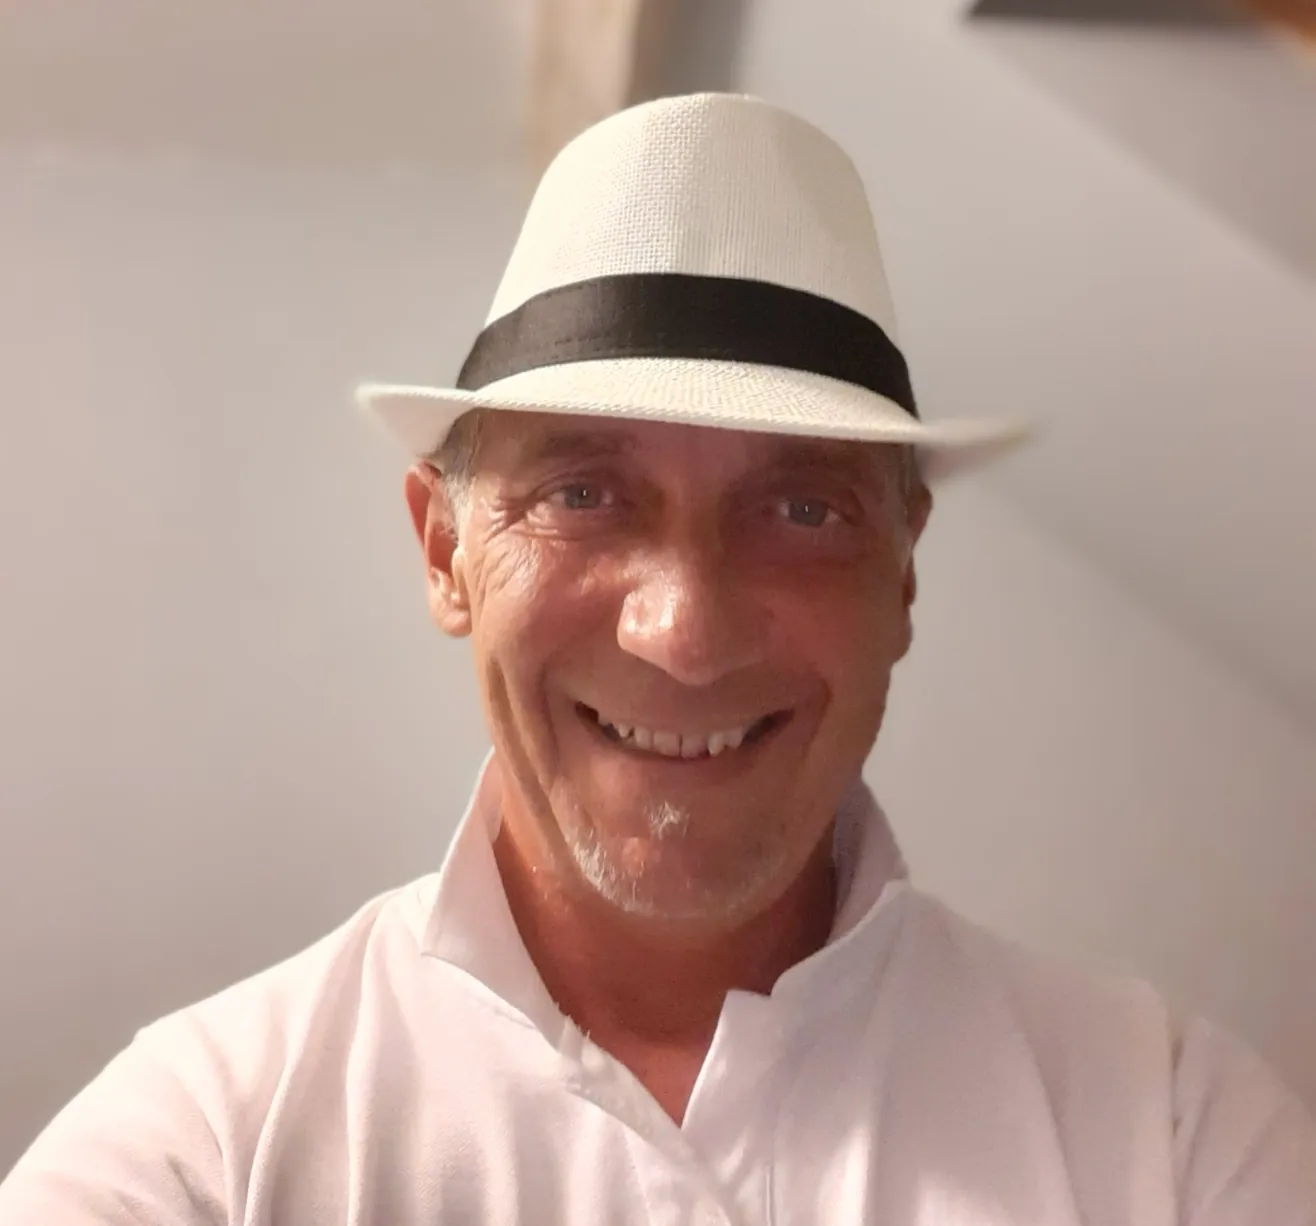
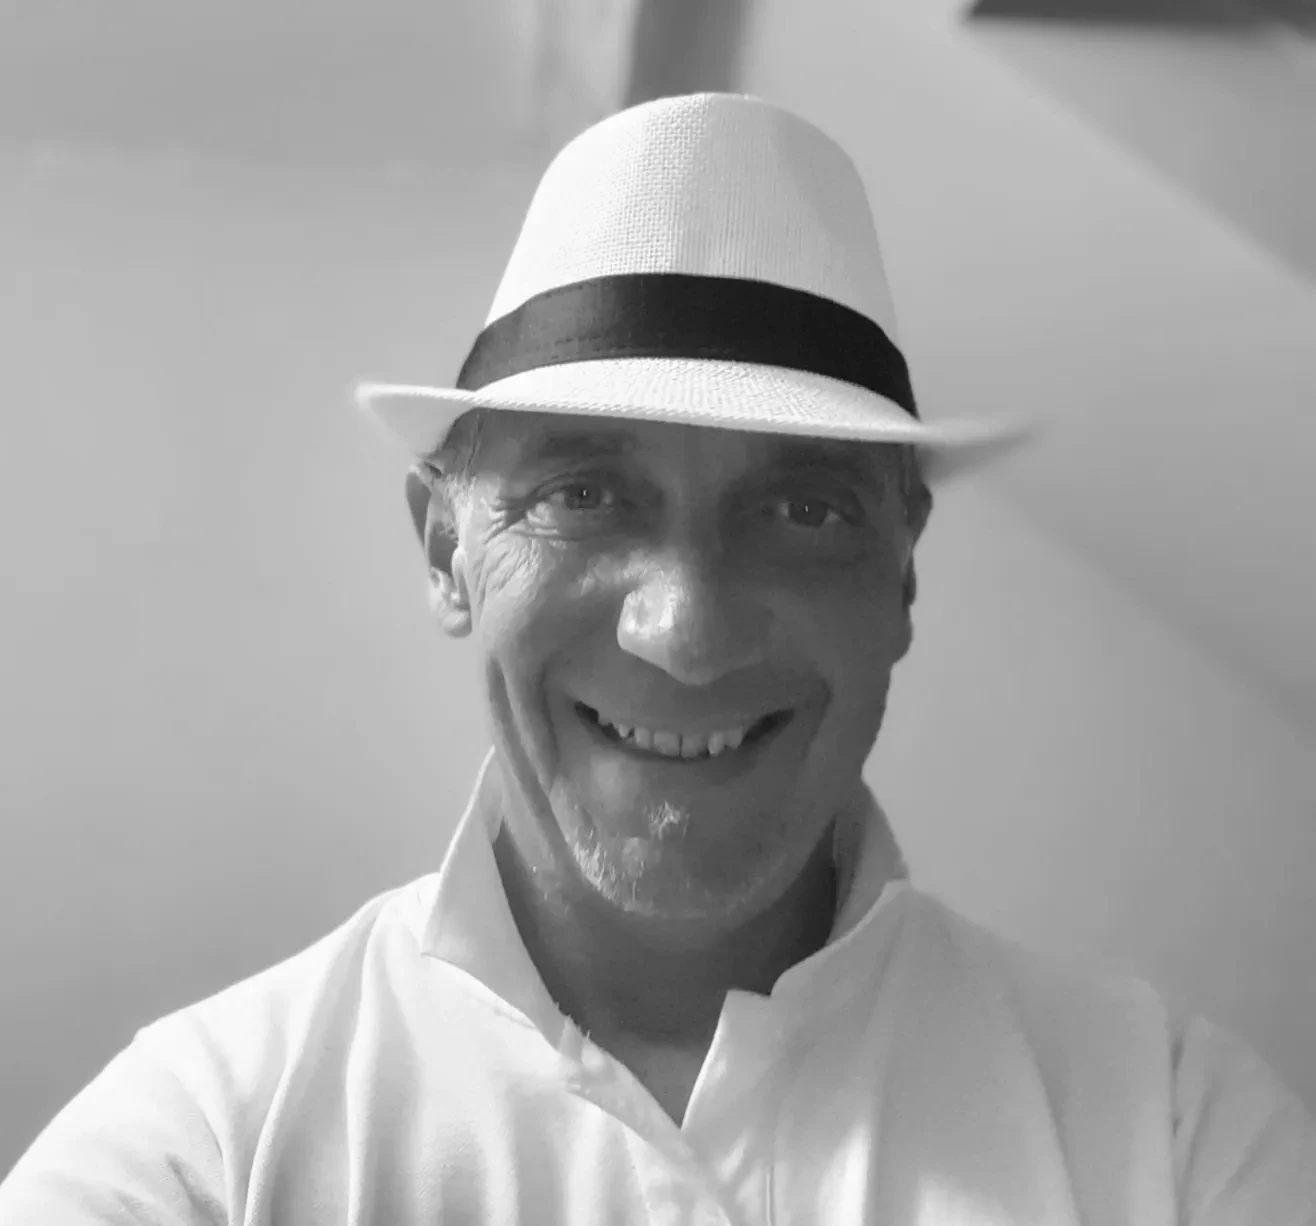
modif img, ajout animation

diff --git a/src/Container/ItemProject.jsx b/src/Container/ItemProject.jsx
@@ -1,42 +1,90 @@
-
+import React, { useState } from 'react';
+import { FontAwesomeIcon } from '@fortawesome/react-fontawesome';
+import { faChevronLeft, faChevronRight } from '@fortawesome/free-solid-svg-icons';
 import pageohmyfood from '../assets/images/pageohmyfood.webp';
 import pagekasa from '../assets/images/pagekasa.webp';
 import pageargentbank from '../assets/images/pageargentbank.webp';
+import pagePrintit from '../assets/images/pagePrintit.webp'
 import backgroundImage from '../assets/images/fonddepage.webp';
 import Bannerlogos from '../Components/Bannerlogos';
 
 function ItemProject() {
+    const [currentIndex, setCurrentIndex] = useState(0);
+    const [hovered, setHovered] = useState(false);
+
+    const projects = [
+        {
+            title: "Oh my food",
+            description: "Réalisation d'un site responsive vitrine pour les cartes de divers restaurateurs",
+            img: pageohmyfood,
+            link: 'https://fredcentvin.github.io/projet4-ohmyfood/'
+        },
+        {
+            title: "Kasa",
+            description: "Site responsive pour de la location d'appartements entre particuliers utilisant React",
+            img: pagekasa
+        },
+        {
+            title: "ArgentBank",
+            description: "Façonnage du site d'une banque en ligne utilisant React, Redux, ainsi que de l'identification auprès du serveur avec un token et utilisation de la méthode CRUD",
+            img: pageargentbank
+        },
+        {
+            title: "Print it",
+            description: "Création du site d'une entreprise d'impression d'entreprise en utilisant javascript pour l'animation d'un carrousel",
+            img: pagePrintit,
+            link:"https://fredcentvin.github.io/Projet5-Print-it/"
+        }
+    ];
+
+    const handlePrev = () => {
+        setCurrentIndex((prevIndex) => (prevIndex === 0 ? projects.length - 1 : prevIndex - 1));
+    };
+
+    const handleNext = () => {
+        setCurrentIndex((prevIndex) => (prevIndex === projects.length - 1 ? 0 : prevIndex + 1));
+    };
+
     const handleClick = () => {
         console.log('Lien cliqué');
     };
+
     return (
         <div className="gridProjects" style={styles.gridProjects}>
             <h2 className="projectsTitle" style={styles.projectsTitle}>Quelques exemples de réalisations</h2>
-            <Bannerlogos />
             <ul style={styles.ul}>
-                <li style={styles.li}>
+                <div className='FaArrowLeft' style={styles.icon} onClick={handlePrev}>
+                    <FontAwesomeIcon icon={faChevronLeft} />
+                </div>
+                <li 
+                    style={styles.li} 
+                    onMouseEnter={() => setHovered(true)} 
+                    onMouseLeave={() => setHovered(false)}
+                >
                     <div className='backView' style={{ ...styles.backView, backgroundImage: `url(${backgroundImage})` }}></div>
-                    <h3 className="title" style={styles.title}>Oh my food</h3>
-                    <p className="descriptionProject" style={styles.descriptionProject}>Réalisation d'un site responsive vitrine pour les cartes de divers restaurateurs</p>
-                    <img src={pageohmyfood} alt="header projet" style={styles.imgbig}></img>
-                    <a href='https://fredcentvin.github.io/projet4-ohmyfood/' target="_blank" rel="noopener noreferrer" onClick={handleClick} style={styles.a} >Visitez le site Oh my food</a>
+                    <h3 className="title" style={styles.title}>{projects[currentIndex].title}</h3>
+                    {/* <p className="descriptionProject" style={styles.descriptionProject}>{projects[currentIndex].description}</p> */}
+                    <img src={projects[currentIndex].img} alt={`Projet ${projects[currentIndex].title}`} style={styles.imgbig}></img>
+                    {projects[currentIndex].link && (
+                        <a href={projects[currentIndex].link} target="_blank" rel="noopener noreferrer" onClick={handleClick} style={styles.a}>
+                            Visitez le site {projects[currentIndex].title}
+                        </a>
+                    )}
+                    {hovered && (
+                        <div style={styles.hoverCircle}>
+                            <p style={styles.hoverDescription}>{projects[currentIndex].description}</p>
+                        </div>
+                    )}
                 </li>
-                <li style={styles.li}>
-                    <div className='backView' style={{ ...styles.backView, backgroundImage: `url(${backgroundImage})` }}></div>
-                    <h3 className="title" style={styles.title}>Kasa</h3>
-                    <p className="descriptionProject" style={styles.descriptionProject}>Site responsive pour de la location d'appartements entre particuliers</p>
-                    <img src={pagekasa} alt="page d'accueil kasa" style={styles.img}></img>
-                </li>
-                <li style={styles.li}>
-                    <div className='backView' style={{ ...styles.backView, backgroundImage: `url(${backgroundImage})` }}></div>
-                    <h3 className="title" style={styles.title}>ArgenBank</h3>
-                    <p className="descriptionProject" style={styles.descriptionProject}>Façonnage du site d'une banque en ligne utilisant Redux</p>
-                    <img src={pageargentbank} alt="profil de frédéric" style={styles.img}></img>
-                </li>
+                <div className='FaArrowRight' style={styles.icon} onClick={handleNext}>
+                    <FontAwesomeIcon icon={faChevronRight} />
+                </div>
             </ul>
+            <Bannerlogos />
         </div>
     );
 }
+
 
 const styles = {
     gridProjects: {
@@ -55,13 +103,14 @@ const styles = {
         display: 'flex',
         flexDirection: 'column',
         alignItems: 'center',
-        width: '400px',
-        height: '400px',
+        width: '420px',
+        height: '420px',
         border: '2px solid #ccc',
         borderRadius: '50%',
         position: 'relative', 
-        overflow: 'hidden' ,
-        
+        overflow: 'visible',
+        boxShadow: '0 4px 15px rgba(0, 0, 0, 0.5)',
+        justifyContent:'center'
     },
     backView: {
         position: 'absolute',
@@ -71,17 +120,21 @@ const styles = {
         height: '100%',
         backgroundSize: 'cover',
         opacity: '0.7',
-        zIndex: '-1'
+        zIndex: '-1',
+        borderRadius:'50%'
     },
     projectsTitle: {
         fontSize: '22px',
         alignItems: 'center',
         color:'#3498db',
-        marginBottom:'0'
+        marginBottom:'0',
+        marginTop:'30px'
     },
     title: {
         color: 'white',
-        fontSize: '18px'
+        fontSize: '24px',
+        margin:'0 0 20px 0',
+        paddingBottom:'20px'
     },
     img: {
         objectFit: 'cover',
@@ -99,11 +152,39 @@ const styles = {
         color:'white',
         fontWeight:'700'
     },
-    a:{
+    a: {
         color:'white',
         textDecoration:'underline',
         cursor:'pointer'
+    },
+    icon: {
+        fontSize:'38px',
+        color:'black',
+        zIndex:'1001',
+        alignContent:'center',
+        cursor:'pointer'
+    },
+    hoverCircle: {
+        position: 'absolute',
+        top: '50%',
+        left: '180%', 
+        transform: 'translate(-50%, -50%)',
+        width: '300px',
+        height: '300px',
+        borderRadius: '50%',
+        backgroundColor: 'rgba(52, 152, 219, 0.8)',
+        display: 'flex',
+        alignItems: 'center',
+        justifyContent: 'center',
+        transition: 'left 0.3s ease-in-out',
+    },
+    hoverDescription: {
+        color: 'white',
+        textAlign: 'center',
+        padding: '20px',
     }
 };
+
+    
 
 export default ItemProject;

diff --git a/src/Container/Itembio.jsx b/src/Container/Itembio.jsx
@@ -4,11 +4,15 @@ function ItemBio(){
 	return(
 		<div className='gridItem'style={styles.gridItem} >
 			<img src= {moi} alt="profil de frédéric" style={styles.img}></img>
-			<p style={styles.p} >
-			Apres plus de 20 années passées dans l'univers de la maintenance industrielle, j'ai envisagé une reconversion professionnelle.
-			Passionné de longues dates par l'informatique, je me suis tourné vers l'intégration web en réalisant un parcours de formation chez OpenClassrooms menant à l'obtention d'un niveau V et à l'obtention d'un diplome d'équivalence RNCP.
-			Durant ce parcours j'ai pu oeuvrer à la réalisation de divers projets utilisants différents langages tels que : HTML, CSS, SASS, JAVASCRIPT, REACT, REDUX.
-			</p>
+			<div className='GridBio'>
+				<h2 className='BioTitle' style={styles.BioTitle} >À propos de moi</h2>
+				<p style={styles.p} >
+				Bonjour et bienvenue sur mon portfolio! Je m'appelle Frédéric Boniface et je suis intégrateur web junior.<br />
+				Après plus de 20 années passées dans l'univers de la maintenance industrielle, j'ai envisagé une reconversion professionnelle.<br />
+				Passionné de longues dates par l'informatique, je me suis naturellement tourné vers l'intégration web en réalisant un parcours de formation chez OpenClassrooms menant à l'obtention d'un diplôme de niveau V et son équivalence RNCP.<br />
+				Durant ce parcours j'ai pu oeuvrer à la réalisation de divers projets utilisants différents langages tels que : HTML, CSS, SASS, JAVASCRIPT, JEST, REACT, REDUX et en intégrant la démarche SEO.<br /> En appliquant les principes de la méthode agile SCRUM, la gestion de versions est déposée sur Github pour favoriser la collaboration.
+				</p>
+			</div>
 		</div>
 	)
 }
@@ -20,17 +24,26 @@ const styles={
 	
 	},
 	p:{
-		fontSize:'16px',
-		padding:'40px 200px 10px 30px',
-		margin:'40px 50px',
+		fontSize:'18px',
+		padding:'20px 200px 10px 30px',
+		margin:'0 50px 30px 50px',
 		color:'white'
 	},
 	img:{
 		width:'200px',
 		height:'200px',
-		marginTop:'35px',
+		marginTop:'85px',
 		marginBottom:'30px',
 		borderRadius:'50%'
+	},
+	GridBio:{
+		display:'flex',
+	},
+	BioTitle:{
+		fontSize:'30px',
+		color:'white',
+		paddingLeft:'80px',
+		marginBottom:'0'
 	}
 }
 export default ItemBio

diff --git a/src/Components/Nav.jsx b/src/Components/Nav.jsx
@@ -17,7 +17,7 @@ function Nav() {
             <div className="navContainer" style={styles.navContainer}>
                 <a href={moncv} target="_blank" rel="noopener noreferrer" style={styles.pNav}>CV</a>
                 <p style={styles.pNav} onClick={handleContactClick}>CONTACT</p>
-                <a href="#projects" style={styles.pNav}>MES REALISATIONS</a> {/* Lien vers l'ID */}
+                <a href="#projects" style={styles.pNav}>MES RÉALISATIONS</a> {/* Lien vers l'ID */}
             </div>
             {showForm && (
                 <div style={styles.modalOverlay}>
@@ -42,7 +42,7 @@ function Nav() {
                                     <textarea name="message"></textarea>
                                 </label>
                             </div>
-                            <button type="submit">Envoyer</button>
+                            <button type="submit" style={styles.buttonValidForm} >Envoyer</button>
                         </form>
                     </div>
                 </div>
@@ -55,7 +55,7 @@ const styles = {
     navContainer: {
         display: 'flex',
         flexDirection: 'row',
-        gap: '20px',
+        gap: '30px',
         paddingLeft:'50px',
         paddingRight:'50px',
         alignItems:'center'
@@ -98,7 +98,9 @@ const styles = {
     form: {
         display: 'flex',
         flexDirection: 'column',
-        gap: '10px'
+        width:'300px',
+        height:'300px',
+        gap: '20px'
     },
     formInput:{
         display:'flex',
@@ -106,10 +108,16 @@ const styles = {
     },
     blockLabel:{
         display:'flex',
-        flexDirection:'column'
+        flexDirection:'column',
+       
     },
     a:{
 
+    },
+    buttonValidForm:{
+        background:'#3498db',
+        height:'40px',
+        marginTop:'15px'
     }
 };
 

diff --git a/src/Components/Bannerlogos.jsx b/src/Components/Bannerlogos.jsx
@@ -4,16 +4,18 @@ import logohtml from '../assets/logos/logohtml.png'
 import logocss from '../assets/logos/logocss.png'
 import logoreact from '../assets/logos/logoreact.png'
 import logosass from '../assets/logos/logosass.png'
+import logogithub from '../assets/logos/logogithub.png'
 
 function Bannerlogos(){
     return(
         <div className='gridBannerLogos' style={styles.gridBannerLogos}> 
-            <img src= {logohtml} alt="header projet" style={styles.img}></img>
-            <img src= {logocss} alt="header projet" style={styles.img}></img>
-            <img src= {logosass} alt="header projet" style={styles.img}></img>
-            <img src= {logoJavascript} alt="header projet" style={styles.img}></img>
-            <img src= {logoreact} alt="header projet" style={styles.img}></img>
-            <img src= {logoredux} alt="header projet" style={styles.img}></img>
+            <img src= {logohtml} alt="logo html" style={styles.img}></img>
+            <img src= {logocss} alt="logo css" style={styles.img}></img>
+            <img src= {logosass} alt="logo sass" style={styles.img}></img>
+            <img src= {logoJavascript} alt="logo javascript" style={styles.img}></img>
+            <img src= {logoreact} alt="logo react" style={styles.img}></img>
+            <img src= {logoredux} alt="logo redux" style={styles.img}></img>
+            <img src= {logogithub} alt="logo github" style={styles.img}></img>
         </div>
     )
 }
@@ -21,7 +23,8 @@ const styles={
     gridBannerLogos:{
         display:'flex',
         flexDirection:'row',
-        gap:'30px'
+        gap:'80px',
+        marginBottom:'30px'
     },
     img:{
         

diff --git a/src/Components/Logo.jsx b/src/Components/Logo.jsx
@@ -1,18 +1,21 @@
 import React from 'react';
 import logo1 from '../assets/logos/logo1.webp';
 
-
 function Logo() {
     return(
         <div>        
-            <img src={logo1} alt="logo agence" style={styles.img}></img>   
+            <a href="/">
+                <img src={logo1} alt="logo agence" style={styles.img}></img>
+            </a>
         </div>
     )
 }
+
 const styles= {
     img : {
         height:'90px',
         marginLeft:'10px'
     }
 }
-export default Logo
+
+export default Logo;
